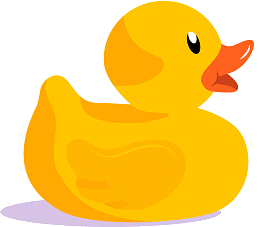
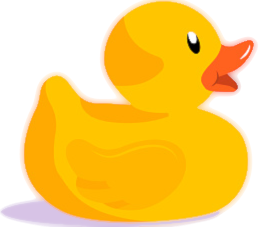
Lay out all the interface section

diff --git a/beamer/2022-TII/talk.tex b/beamer/2022-TII/talk.tex
@@ -192,7 +192,7 @@
     \end{columns}
 \end{frame}
 
-\section{Abstraction}
+\section{Abstractions}
 
 \begin{frame}{Concepts}
     \begin{center}
@@ -204,13 +204,13 @@
         \begin{column}{0.1\textwidth}
         \end{column}
         \begin{column}{0.4\textwidth}
-            \vcinclude{numpy}{height=50pt} {\Huge $\qquad\to\qquad$} N-dim array
+            \vcinclude{numpy}{height=50pt} {\Huge $\,\quad\to\qquad$} N-dim array
             \vspace*{10pt}
 
             \vcinclude{pandas}{height=50pt} {\Huge $\qquad\to\qquad$} Table
         \end{column}
         \begin{column}{0.4\textwidth}
-            \vcinclude{xarray}{height=50pt} {\Huge $\qquad\to\qquad$} Dataset
+            \vcinclude{xarray}{height=50pt} {\Huge $\.\quad\to\qquad$} Dataset
             \vspace*{10pt}
 
             \vcinclude{networkx}{height=50pt} {\Huge $\qquad\to\qquad$} Network
@@ -218,7 +218,13 @@
         \begin{column}{0.1\textwidth}
         \end{column}
     \end{columns}
-    \vspace*{30pt}
+    \vspace*{10pt}
+    \begin{flushright}
+        \footnotesize
+        Many useful libraries implement tools to \textbf{perform an action},
+        not only to manage data structures.
+    \end{flushright}
+    \vspace*{10pt}
 
     It is crucial to \textit{hide} implementation \textit{details}
     ($\sim$ \textbf{encapsulation}).
@@ -250,7 +256,7 @@
             On the other, it is a perfect one: it relies on \textbf{duck typing}.
             \begin{figure}
                 \centering
-                \includegraphics[width=0.3\textwidth]{duck}
+                \includegraphics[width=0.3\textwidth]{duck.png}
             \end{figure}
 
             \begin{center}
@@ -279,22 +285,213 @@
 
 \section{Interfaces}
 
+\begin{frame}[fragile]{What is an interface?}
+    \vspace*{30pt}
+    \begin{columns}
+        \begin{column}{0.02\textwidth}
+        \end{column}
+        \begin{column}{0.47\textwidth}
+            Some programming languages define an explicit concept of interface:
+
+            \begin{lstlisting}[language=Go,style=mystyle]
+// Go example, see full at: https://gobyexample.com/interfaces
+type geometry interface {
+    area() float64
+    perim() float64
+}
+
+type rect struct {
+    width, height float64
+}
+// Implement geometry on rects.
+func (r rect) area() float64 {
+    return r.width * r.height
+}
+// [...]
+
+// Call methods that are in the named interface.
+func measure(g geometry) {
+    fmt.Println(g)
+    fmt.Println(g.area())
+    fmt.Println(g.perim())
+}\end{lstlisting}
+
+            In its most basic instance, it is just an object that expose a
+            property (also a specific attribute in Plain Old Data, POD).
+        \end{column}
+        \begin{column}{0.47\textwidth}
+            This is intrinsic in OOP, e.g.\ C++\footnote{
+                where no explicit interface feature is present
+            } gets extremely close through pointers and
+            \href{https://en.wikipedia.org/wiki/Polymorphism_(computer_science)}{polymorphism}.
+
+            \begin{lstlisting}[language=C++,style=mystyle]
+// C++ example, see full at: https://cplusplus.com/doc/tutorial/polymorphism/
+class Polygon {
+  protected:
+    int width, height;
+  public:
+    void set_values (int a, int b)
+      { width=a; height=b; }
+};
+
+class Rectangle: public Polygon {
+  public:
+    int area()
+      { return width*height; }
+};
+
+int main () {
+  Rectangle rect;
+  Polygon * ppoly1 = &rect;
+  ppoly1->set_values (4,5);
+  cout << rect.area() << '\n';
+  return 0;
+}\end{lstlisting}
+        \end{column}
+        \begin{column}{0.02\textwidth}
+        \end{column}
+    \end{columns}
+\end{frame}
+
+\begin{frame}[fragile]{More Abstract}
+    \vspace*{30pt}
+    \begin{columns}
+        \begin{column}{0.5\textwidth}
+            Interfaces exists also \textbf{independently from} any specific
+            \textbf{language} feature.
+
+            \begin{center}
+                \itshape
+                They are \alert{contracts} between two or multiple parties, on
+                a certain behavior.
+            \end{center}
+
+            Consider that the word \enquote{interface} is also in \textit{API
+            (application programming interface)} and \textit{ABI (application
+            binary interface)}.\newline
+
+            \begin{figure}
+                \centering
+                \includegraphics[width=0.5\textwidth]{contract}
+            \end{figure}
+
+            E.g. an API is a contract between developers/source codes, while an
+            ABI is an agreement at the level of the compiled code.
+        \end{column}
+        \begin{column}{0.5\textwidth}
+            Another example of interface is a \textbf{Foreign Function
+            Interface (FFI)}, that is a way to call code from a different
+            language (\alert{fundamental in Python}, more later).
+            \vspace*{10pt}
+
+            \begin{lstlisting}[language=Python,style=mystyle]
+import ctypes
+libc = ctypes.CDLL('/lib/libc.so.6')  # Under Linux/Unix
+t = libc.time(None)  # Equivalent C code: t = time(NULL)
+print(t)\end{lstlisting}
+            \vspace*{20pt}
+
+            Interfaces are a concept (or a
+            \href{https://refactoring.guru/design-patterns}{design pattern})
+            you can also use to build other concepts upon.\newline
+
+            E.g.\ a \href{https://en.wikipedia.org/wiki/Mixin}{mixin}, leverage
+            a specific behavior (an interface), to provide some other features
+            to your object\footnote{
+                Specifically related to OOP and inheritance.
+            }.
+        \end{column}
+    \end{columns}
+\end{frame}
+
 \begin{frame}{Template}
     \begin{columns}
         \begin{column}{0.5\textwidth}
-            POD
+            Another option to interface two different programs is to have them
+            talking through files.\newline
 
-            dataclasses
+            An agreement over a \textbf{file structure} is an interface.
+            \begin{flushright}
+                \footnotesize
+                File structure is more than just the language (e.g.\ a
+                \texttt{YAML} file).
 
-            properties
+                \hspace*{10em} The language specify just the
+                \textbf{\textit{syntax}}, while a proper interface should
+                specify also the \textbf{\textit{semantics}}.
+            \end{flushright}
 
-            foreign language (Rust, C/C++ if possible, mention Fortran with
-            f2py)
+            \begin{figure}
+                \centering
+                \includegraphics[width=0.2\textwidth]{data-file}
+            \end{figure}
 
-            file based
+            In general, you can implement the concept \alert{\textbf{in data}},
+            e.g.\ including memory exchange of \textit{text} or \textit{binary
+            blobs} (think about in memory databases).
+
+            \begin{flushright}
+                \footnotesize
+                In practice, apart from specific needs, it is convenient to use
+                files.
+            \end{flushright}
         \end{column}
         \begin{column}{0.5\textwidth}
-            
+            Actual encapsulation.
+            (Use methods, properties, and functions, not directly attributes.
+            Only when required, otherwise attributes are good enough.)
+
+            Methods are useful, not required. Make clever use of functions that
+            act on specific objects.
+            (Also because Python does not allow for many \texttt{impl} blocks,
+            so required to split over multiple files).
+        \end{column}
+    \end{columns}
+\end{frame}
+
+\begin{frame}{In Python}
+    \begin{columns}
+        \begin{column}{0.5\textwidth}
+            Plain Old Data POD.
+            (Best implemented with dataclasses, see after.)
+
+            Actual encapsulation.
+            (Use methods, properties, and functions, not directly attributes.
+            Only when required, otherwise attributes are good enough.)
+
+            Practical use of duck typing.
+
+            Use modules and classes as namespaces.
+            (Consider expose better public API, hiding internals, e.g.
+            \texttt{\_internal}).
+        \end{column}
+        \begin{column}{0.5\textwidth}
+            The static analyzer is your best friend (the best replacement for
+            the compiler).
+
+            Writing explicit code helps the analyses.
+
+            When possible, give hints with types (but do not break duck typing
+            when not required).
+
+            Also, in Python itself you can find the concept of interface
+            (protocol, e.g.\ a
+            \href{https://docs.python.org/3/glossary.html\#term-sequence}{sequence})
+            implemented at many levels:
+
+            \begin{description}
+                \item[C API] at the level of C implementation\footnote{
+                        \texttt{CPython} specific
+                    }, the
+                    \href{https://docs.python.org/3/c-api/sequence.html}{Sequence
+                    Protocol}
+                \item[typing] in the type hinting system,
+                    \href{https://docs.python.org/3/library/typing.html?highlight=sequence\#typing.Sequence}{\texttt{typing.Sequence}}
+                \item[runtime] consumable in code itself,
+                    \href{https://docs.python.org/3/library/collections.abc.html?highlight=sequence\#collections.abc.Sequence}{\texttt{collections.abc.Sequence}} 
+
+            \end{description}
         \end{column}
     \end{columns}
 \end{frame}
@@ -304,10 +501,22 @@
 \begin{frame}{Template}
     \begin{columns}
         \begin{column}{0.5\textwidth}
-            
+            When possible: No dicts, no strings.
+
+            Attributes
+
+            Properties
+
+            Dataclasses
+            (Because Python has no POD, best way to enforce a certain
+            data structure.)
+
+            Enums
+
+            foreign language (Rust, C/C++ if possible, mention Fortran with
+            f2py)
         \end{column}
         \begin{column}{0.5\textwidth}
-            
         \end{column}
     \end{columns}
 \end{frame}
